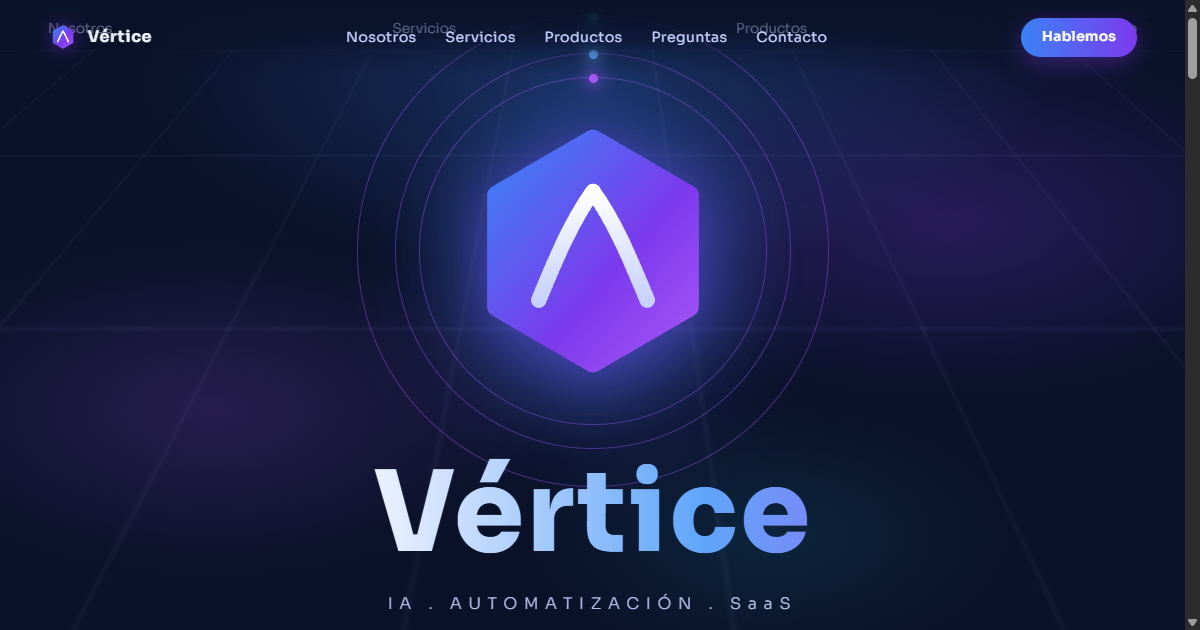
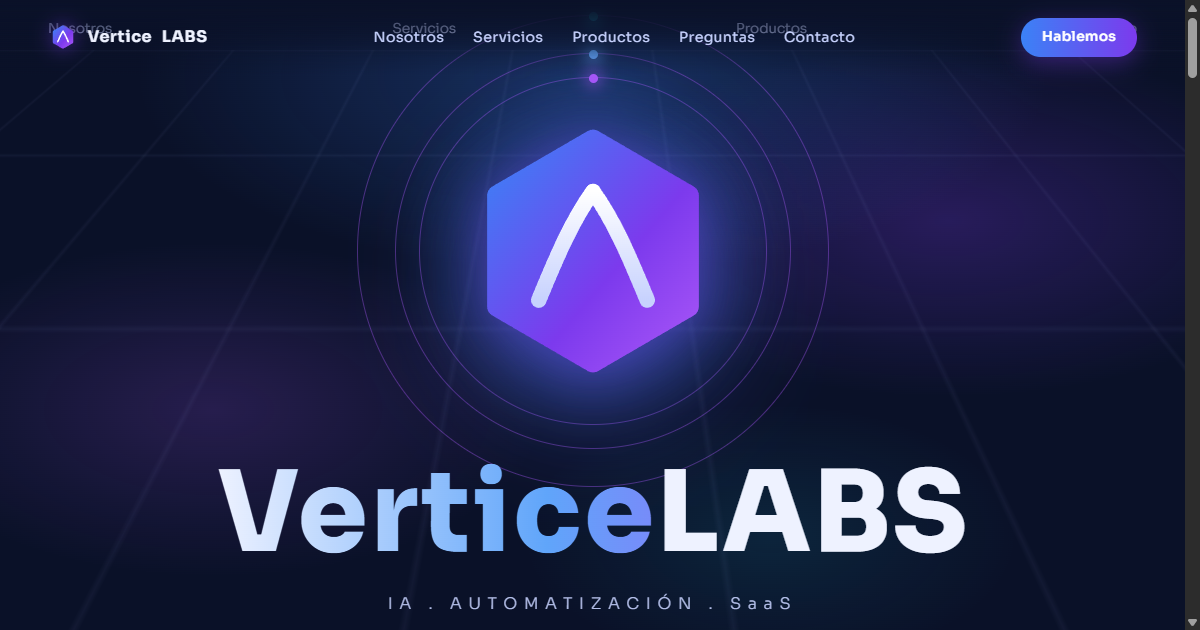
chore: deploy.py lee .env, limpieza de scripts de diagnóstico, MEMORY al día

Changed region(s): [[0.185, 0.7238, 0.8017, 0.8746], [0.2775, 0.0302, 0.7092, 0.0905], [0.1233, 0.0302, 0.185, 0.0905]]

diff --git a/deploy.py b/deploy.py
@@ -20,6 +20,15 @@ import os
 import sys
 from pathlib import Path
 
+# Cargar credenciales de .env local si existe (nunca se commitea)
+_ENV = Path(__file__).resolve().parent / ".env"
+if _ENV.exists():
+    for _linea in _ENV.read_text(encoding="utf-8").splitlines():
+        _linea = _linea.strip()
+        if _linea and not _linea.startswith("#") and "=" in _linea:
+            _k, _v = _linea.split("=", 1)
+            os.environ.setdefault(_k.strip(), _v.strip())
+
 # Archivos y carpetas que componen el sitio (raíz del repo).
 ARCHIVOS_SUELTOS = ["index.html"]
 CARPETAS = ["css", "js", "assets"]

diff --git a/fer_shots.py b/fer_shots.py
@@ -13,9 +13,6 @@ SALIDA = r"C:\Users\Luchi$\Desktop\portfolio\assets"
 OBJETIVOS = [
     # (url, archivo, ancho, alto)  — og 1200x630, tarjetas 1280x800
     ("https://www.verticelabs.com.ar/", "og-verticelabs.png", 1200, 630),
-    ("https://lucianog13.github.io/simpleat/", "simpleat.png", 1280, 800),
-    ("https://lucianog13.github.io/abastece-demo/", "abastece.png", 1280, 800),
-    ("https://lucianog13.github.io/bot-cash/", "bot-cash.png", 1280, 800),
 ]
 
 

diff --git a/MEMORY.md b/MEMORY.md
@@ -42,31 +42,31 @@ Dominio de producción: **www.verticelabs.com.ar** (DonWeb, hosting compartido, 
 - [x] Bloque 6: contacto real + FAQ
 - [x] Bloque 7: SEO/OG/favicon/canonical/JSON-LD + og-verticelabs.png
 - [x] DEPLOY A DONWEB HECHO (15-09-2026): www.verticelabs.com.ar online,
-      SSL Let's Encrypt activo, .htaccess fuerza https+www (verificado 301→200)
+      SSL Let's Encrypt activo, .htaccess fuerza https+www (verificado 301→200).
+      FTP operativo vía .env + deploy.py. Rebrand VerticeLABS + efectos premium
+      desplegados y verificados (ticker/contadores/wordmark nuevo).
 - [ ] Optimizar peso de imágenes (super.png 710 KB, vitrina.png 608 KB → uv + Pillow)
 - [ ] Auditoría responsive (skill auditoria-responsive-web)
 - [ ] Confirmar con Lucho: número de WhatsApp en CTAs, clientes visibles en público,
       apellidos en JSON-LD, qué hacer con el WordPress instalado en public_html
 
-## Deploy a DonWeb (cómo se usa — CAMINO PROBADO)
-
-FTP directo (deploy.py) NO funcionó al inicio: la contraseña FTP es distinta a la
-del panel Ferozo (530 Login incorrect). El camino que SÍ funciona es el panel:
+## Deploy a DonWeb (cómo se usa — FTP ACTIVO)
 
 ```bash
-python hacer_zip.py            # arma sitio.zip con los archivos del sitio
-python fer_subir.py            # entra por CDP al panel Ferozo (Chrome del usuario
-                               # ya logueado) → Mi Sitio Web → Subir mi sitio →
-                               # adjunta el zip → extrae en public_html
+python deploy.py   # lee .env (gitignored): DONWEB_HOST/USER/PASS, sube por FTPS
 ```
-- fer_subir.py necesita el Chrome del usuario corriendo con CDP 9222 y la pestaña
-  de ferozo.host logueada (usuario a0190762). Reusa wa_cdp.py (skill whatsapp-web-cdp).
-- fer_shots.py captura screenshots por CDP (para tarjetas/og) con Emulation.setDeviceMetricsOverride.
-- deploy.py (FTPS) queda listo por si algún día se consigue la contraseña FTP real
-  (en el panel: Mi Sitio Web → FTP → Cambiar Contraseña).
-- El panel Ferozo también tiene GIT (#/website/git) y Administrador de archivos,
-  alternativas válidas si el zip fallara.
+- FTP verificadado 15-09-2026: host a0190762.ferozo.com, usuario ftp@a0190762.ferozo.com,
+  contraseña en .env local (NO commitear). FTPS explícito puerto 21 (FTP_TLS + prot_p).
+- Ojo: varios intentos fallidos de login → el servidor devuelve timeouts (bloqueo
+  temporal). No insistir.
+- Alternativa si FTP falla: panel Ferozo → Mi Sitio Web → Subir mi sitio (ZIP,
+  lo arma hacer_zip.py). El login del panel solo pasa en navegador visible de
+  Lucho (Turnstile); Chrome headless no sirve para eso.
+- fer_shots.py captura screenshots por CDP (headless=new, que es lo único que
+  bindea el puerto de debug desde Chrome 153).
 - SSL: ya emitido por Let's Encrypt (*.verticelabs.com.ar). No tocar salvo renovación.
+- En public_html quedó un WordPress preinstalado + sitio.zip viejo + archivos
+  captura-*.png legacy. Nuestro index.html tiene prioridad (verificado).
 
 ## Cambios pendientes / notas
 
